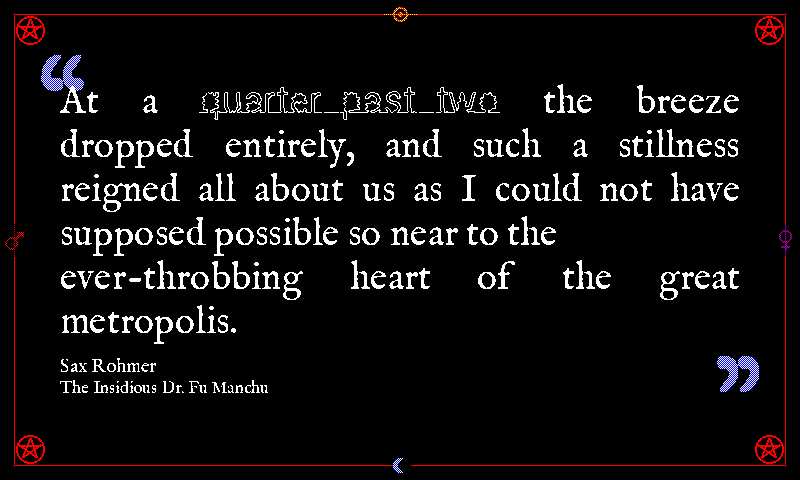
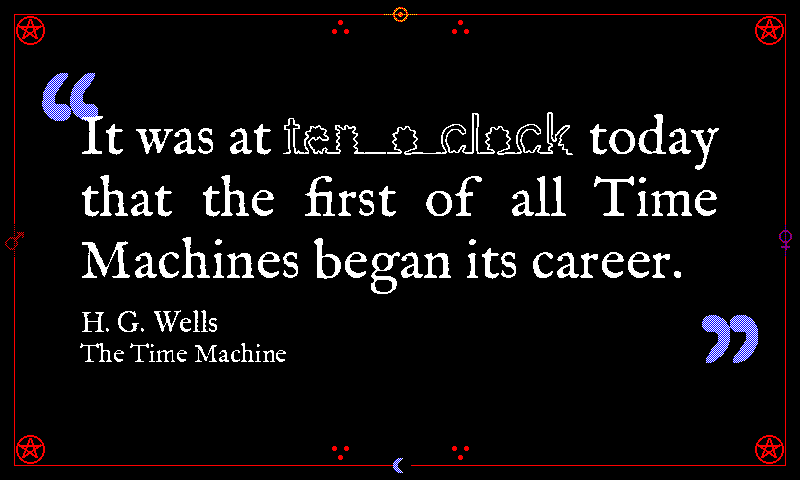
Uplevel roman and grimoire theme visuals
Continue the measured theme-upleveling effort with two themes that had
genuinely open margin space (verified by sampling margin-band busyness;
neither was touched by the earlier visual-improvements PR).

roman: add carved corner "stops" to draw_roman_border — a small red
right-triangle tucked into each inner-channel corner pointing inward along
the diagonal, the lapidary corner terminal a stonemason cut where two
channel rules meet (the rubrum-ink equivalent of a printer's corner
bracket). Sits in the corner gutters clear of the body text, picking up the
existing SPQR / interpunct / berry red vocabulary.

grimoire: add tria-prima triad dots to draw_grimoire_border — the three-dot
ritual-notation mark (salt · sulfur · mercury) in solid rubric red flanking
the Sun (top) and Moon (bottom) mid-edge sigils, filling the otherwise-empty
top / bottom interior bands between the corner pentagrams and the centre
sigils.

Add two border-detail unit tests and refresh both README preview thumbnails
(10:00 production; default.png reproduces byte-for-byte). Update CLAUDE.md
theme docs. Full suite green before commit (391 passed, 3 skipped); ruff
clean.

Changed region(s): [[0.0312, 0.0938, 0.9375, 0.8438], [0.875, 0.6562, 0.9688, 0.8125]]

diff --git a/idle_hours/render_quote.py b/idle_hours/render_quote.py
@@ -4352,6 +4352,27 @@ def draw_grimoire_border(image: Image.Image, colors: dict) -> None:
                     if row[px & 3] < threshold and pixels[px, py] == dark_ink:
                         pixels[px, py] = light_ink
 
+    # "Tria prima" triad dots flanking the Sun (top) and Moon (bottom)
+    # mid-edge sigils — the three-dot ``∴`` mark of alchemical / Masonic
+    # ritual notation (salt · sulfur · mercury), the smallest occult
+    # glyph that reads as deliberate ritual annotation. A small upward /
+    # downward triangle of three red dots is painted on each side of the
+    # Sun and Moon, filling the empty top / bottom interior bands
+    # (y≈18-40 / y≈440-462, between the corner pentagrams and the centre
+    # sigils — verified clear of the body block, which never starts
+    # before y=72 and ends by y≈410). Solid rubric red so they read on
+    # the open black field, matching the pentagram / sigil ink.
+    triad_r = 2
+    triad_spread = 6
+    for cy, point_up in ((outer_inset + 14, True), (height - 1 - outer_inset - 14, False)):
+        vy = -1 if point_up else 1
+        for cx in (width // 2 - 60, width // 2 + 60):
+            apex = (cx, cy + vy * triad_spread)
+            base_l = (cx - triad_spread, cy - vy * triad_spread // 2)
+            base_r = (cx + triad_spread, cy - vy * triad_spread // 2)
+            for dx, dy in (apex, base_l, base_r):
+                draw.ellipse((dx - triad_r, dy - triad_r, dx + triad_r, dy + triad_r), fill=accent)
+
 
 def draw_deco_border(image: Image.Image, colors: dict) -> None:
     """Paint an art-deco poster frame: doubled hairline rule + stepped
@@ -7301,6 +7322,37 @@ def draw_roman_border(image: Image.Image, colors: dict) -> None:
         (laurel_cx - 2, laurel_band_y - 4, laurel_cx + 2, laurel_band_y),
         fill=accent,
     )
+
+    # ------------------------------------------------------------------
+    # Layer 7: Carved corner "stops" on the inscribed face. A small red
+    # right-triangle tucked into each inner-channel corner, pointing
+    # inward along the diagonal — the carved corner terminal Roman
+    # stonemasons cut where two channel rules meet, the lapidary
+    # equivalent of a printer's corner bracket. Painted in rubrum to
+    # pick up the SPQR / interpunct / berry red vocabulary. Each
+    # triangle's legs are short (10 px) and hug the channel corner, so
+    # they sit in the corner gutter clear of the body text (the quote's
+    # widest dense layout spans roughly x60-740, y72-410, while these
+    # sit at the channel corners ≈(38,22)/(761,457)).
+    chan_l = rect_left + channel_inset
+    chan_r = rect_right - channel_inset
+    chan_t = rect_top + channel_inset
+    chan_b = rect_bot - channel_inset
+    stop_leg = 10
+    for corner_x, corner_y, hdir, vdir in (
+        (chan_l, chan_t, 1, 1),    # TL
+        (chan_r, chan_t, -1, 1),   # TR
+        (chan_l, chan_b, 1, -1),   # BL
+        (chan_r, chan_b, -1, -1),  # BR
+    ):
+        draw.polygon(
+            [
+                (corner_x, corner_y),
+                (corner_x + hdir * stop_leg, corner_y),
+                (corner_x, corner_y + vdir * stop_leg),
+            ],
+            fill=accent,
+        )
 
 
 def _draw_pentagram(draw: ImageDraw.ImageDraw, cx: int, cy: int, radius: int, color, line_width: int = 1) -> None:

diff --git a/tests/test_render_quote.py b/tests/test_render_quote.py
@@ -3754,3 +3754,30 @@ def test_chanbara_border_paints_brush_tick_column():
     red = rq.SPECTRA6["red"]
     col_red = sum(1 for x in range(20, 57) for y in range(188, 283) if px[x, y] == red)
     assert col_red > 40, "brush-tick signature column missing"
+
+
+def test_roman_border_paints_corner_stops():
+    """The upleveled roman border adds small red carved corner 'stops' (right
+    triangles) tucked into each inner-channel corner."""
+    img = Image.new("RGB", (800, 480), (255, 255, 255))
+    rq.draw_roman_border(img, rq.THEMES["roman"])
+    px = img.load()
+    red = rq.SPECTRA6["red"]
+    tl = sum(1 for x in range(38, 50) for y in range(22, 34) if px[x, y] == red)
+    br = sum(1 for x in range(750, 762) for y in range(446, 458) if px[x, y] == red)
+    assert tl > 20, "top-left corner stop missing"
+    assert br > 20, "bottom-right corner stop missing"
+
+
+def test_grimoire_border_paints_tria_prima_triads():
+    """The upleveled grimoire border adds tria-prima triad dots flanking the
+    Sun (top) and Moon (bottom) sigils, in the previously-empty interior
+    bands."""
+    img = Image.new("RGB", (800, 480), (0, 0, 0))
+    rq.draw_grimoire_border(img, rq.THEMES["grimoire"])
+    px = img.load()
+    red = rq.SPECTRA6["red"]
+    top_l = sum(1 for x in range(330, 352) for y in range(18, 40) if px[x, y] == red)
+    bot_l = sum(1 for x in range(330, 352) for y in range(440, 462) if px[x, y] == red)
+    assert top_l > 20, "top tria-prima triad missing"
+    assert bot_l > 20, "bottom tria-prima triad missing"

diff --git a/CLAUDE.md b/CLAUDE.md
@@ -536,9 +536,9 @@ Imports `pick_quote` in-process (`pick_quote_module.select_quote`) and lays out 
   - `atomic` (green-ground/black-body/red-accent — the only theme to claim Spectra 6's flat green as a *page background* — paired with the chunky 1950s Atomic Age display face. Plus a `draw_atomic_border` decoration: a rounded-corner red outer frame (Googie streamlined-modern curves), a centred atom symbol at the top of the page (three rotated red ellipse "orbits" at 0° / 60° / 120° plus a small filled red nucleus — PIL's `ellipse` doesn't accept rotation, so each orbit is drawn as a 64-point polygon-line approximation rotated through the standard 2×2 cosine/sine matrix), and twin tangerine starbursts at the mid-edges (eight rays radiating from a small filled dot — the iconic atomic-energy spark of mid-century diner / motel signage. Each ray is painted in red as a sentinel ink, then a per-starburst bbox post-pass Bayer-flips ~3/8 of the red pixels to yellow at threshold 6/16 — the documented R+Y 5/8:3/8 tangerine recipe `deco` already uses for its matched phrase — so the rays read as the warm atomic-spark glow of period-correct mid-century advertising rather than the harsh fire-engine red the atom orbits use. The atom symbol itself stays solid red so rays-vs-orbits reads as a visual contrast — solid orbits, warm-stippled rays). Plus an atomic **boomerang** centred in the bottom margin — the iconic Googie / Formica kidney-boomerang the era stamped on diner tables and motel signs, a chevron-shaped filled polygon with a small orbiting-electron dot off one tip, painted in red then bbox-post-passed through the same R+Y 5/8:3/8 tangerine recipe as the starburst rays (so it reads as warm atomic-spark orange, not the orbits' fire-engine red). Reads as a vintage atomic-age advertisement at a glance. The atom is centred horizontally so it doesn't conflict with the right-aligned `DEBUG MODE` banner, and the boomerang sits at the bottom centre clear of the bottom-left attribution; atomic is intentionally absent from `_DEBUG_LABEL_RIGHT_INSET`).
   - `marker` (white/black/blue-accent, Permanent Marker hand-drawn — "use the full capabilities of the display" brief: a `draw_marker_border` fridge-doodle frame that lights up every non-white spot colour the Spectra 6 panel can render. Thick 3 px marker-dash perimeter cycling through the five-colour palette so each edge picks up roughly one full rotation of the cycle; corner asterisks coloured red TL / blue TR / green BL / yellow BR for a "marker pot" register rather than a single-Sharpie doodle; left mid-edge mint highlighter dot (G+W 1:1 bbox post-pass via the documented two-ink recipe `nightvision`'s body uses) and right mid-edge violet overlap dot (R+B 1:1, the `illuminated` matched-phrase recipe) balancing the otherwise-stranded yellow + green pixels from the perimeter cycle; plus two doodle **"twinkle" sparkles** (a tapered four-point star with a tiny companion mark, the little stars a kid scatters around a fridge drawing) in the top-centre (red) and bottom-centre (blue) margins, pulling two more palette inks into the otherwise-empty head/foot space. The TR corner asterisk overlaps the y=14-29 banner band, so `marker` carries an entry in `_DEBUG_LABEL_RIGHT_INSET`; the top twinkle sits at x=width//2-70, left of the banner, so it needs no further inset adjustment).
   - `saloon` (white/black/red, Rye wood-engraved slab serif — 19th-century saloon poster / "WANTED" broadside. Same palette as `default` / `dispatch` / `roman` but a `draw_saloon_border` decoration heavy enough to read as hand-printed Western broadside at a glance: sparse red foxing speckles across the full page (a deterministic seeded `_SALOON_FOXING` stipple of ~360 single-pixel + 3×3 spots, painted in red then `(px+py)&1` post-passed to flip half to green per parity — the documented R+G 1:1 brown/sepia recipe — for aged-paper rust-brown foxing); doubled wanted-poster frame whose outer 3 px red rule similarly post-passes to read as rusted iron; top + bottom decorative banner bands with mirrored ornaments; corner fleurons; mid-edge red diamonds; and side-margin drop-pendant diamond chains — two diminishing red diamonds joined by a thin tick, hung inward from each left/right mid-edge diamond into the otherwise-empty tall side margins, the "drop pendant" terminal a broadside printer ran down from a margin ornament).
-  - `roman` (white/black/red, Cinzel Decorative chiselled serif — Roman lapidary inscription. The red accent is *rubrum*, the red lead pigment Roman carvers painted into engraved grooves to make inscriptions legible from a distance; Cinzel Decorative is a digital revival of Trajan's Column (113 AD), the canonical reference for capitalis monumentalis. Plus a `draw_roman_border` decoration laying the rest of the stone-slab vocabulary on top of the page: scattered limestone-grain speckles, a `tabula ansata` (Roman votive tablet) silhouette with two trapezoidal "dovetail" handles protruding from the left and right mid-edges, an SPQR cartouche at the top centre with interpunct dot separators between the letters, mirrored mid-edge interpunct dots, and a centred laurel sprig at the bottom — leaf colour painted in yellow then bbox-post-passed to olive per the documented Y+G 1:1 recipe, the canonical Mediterranean laurel).
+  - `roman` (white/black/red, Cinzel Decorative chiselled serif — Roman lapidary inscription. The red accent is *rubrum*, the red lead pigment Roman carvers painted into engraved grooves to make inscriptions legible from a distance; Cinzel Decorative is a digital revival of Trajan's Column (113 AD), the canonical reference for capitalis monumentalis. Plus a `draw_roman_border` decoration laying the rest of the stone-slab vocabulary on top of the page: scattered limestone-grain speckles, a `tabula ansata` (Roman votive tablet) silhouette with two trapezoidal "dovetail" handles protruding from the left and right mid-edges, an SPQR cartouche at the top centre with interpunct dot separators between the letters, mirrored mid-edge interpunct dots, and a centred laurel sprig at the bottom — leaf colour painted in yellow then bbox-post-passed to olive per the documented Y+G 1:1 recipe, the canonical Mediterranean laurel — plus small red **carved corner stops** (a right-triangle tucked into each inner-channel corner pointing inward along the diagonal, the lapidary corner terminal a stonemason cut where two channel rules meet — the rubrum-ink equivalent of a printer's corner bracket, sitting in the corner gutters clear of the body text)).
   - `alchemy` (yellow/black/red+blue, IM Fell English body + MedievalSharp matched phrase + ornament — parchment grimoire register, the aged-yellow ground a real alchemical manuscript takes on after four centuries of candlelight and iron-gall ink. IM Fell English is Igino Marini's revival of John Fell's 17th-century Oxford-press types, the same Oxford types that printed actual alchemical treatises (Ashmole's *Theatrum Chemicum Britannicum*, Newton's manuscript translations of Flamel); matched phrase in MedievalSharp + red rubricated accent the way medieval scribes flagged the operative phrase of a spell, blue Hermetic ornaments for the oversized quote marks. The matched-phrase red is rerouted in `_draw_text_body` to a 50/50 R+B purple stipple — the Tyrian-purple recipe shared with `illuminated` / `risograph`. Plus a `draw_alchemy_border` transmutation circle whose four classical-element triangles each paint a different documented two-ink elemental recipe: 🜂 Fire (R+Y 5/8:3/8 tangerine, BL), 🜁 Air (R+B 1:1 purple, TR), 🜃 Earth (Y+G 1:1 olive, TL), 🜄 Water (B+W 1:1 sky blue, alternate TR) — the four classical elements rendered as their canonical synthesised colours).
-  - `grimoire` (black/white/red+blue, IM Fell English body + TFoust matched phrase — alchemical grimoire / Faustian spellbook, the black leather-bound midnight counterpoint to `alchemy`'s yellow daylight ritual diagram. Shares only the palette family with `alchemy`. TFoust is a hollow-outline shaggy display face that reads as occult sigil-work against the dignified vintage-press body — short ASCII time strings ("half past two") render in its phantom-scrawl silhouette glowing through the page like a magic-circle inscription. The matched-phrase red is stippled with the sparse 1-in-4 white-on-red dither (`light_density=0.25`, the documented candlelit-red recipe `gothic`'s matched phrase shares — both sister themes carrying the same candlelit-rubric signature against their respective grounds), so the phrase shimmers like a candle-lit rubric against the black ground without diluting into pink at panel distance. The oversized quote marks render as a 50/50 blue/white checkerboard via `draw_faux_gray_text` for cool moon-silver "sky" — the documented sky-blue B+W recipe `glacier`'s corner shards use, here promoted to ornament scale. Plus a `draw_grimoire_border` decoration: inscribed pentagrams at the four canvas corners and the four classical planetary alchemical sigils painted on the mid-edges — ☉ Sun (top, tangerine R+Y), ☽ Moon (bottom, sky-blue B+W), ♂ Mars (left, maroon R+K), ♀ Venus (right, purple R+B). Iconographically unrelated to `gothic`'s blackletter + cathedral-tracery vocabulary despite the shared black/white/red palette shape — the TFoustScript hollow-display plus *inscribed* pentagrams and planetary sigils give grimoire its own ritual-scrawl signature).
+  - `grimoire` (black/white/red+blue, IM Fell English body + TFoust matched phrase — alchemical grimoire / Faustian spellbook, the black leather-bound midnight counterpoint to `alchemy`'s yellow daylight ritual diagram. Shares only the palette family with `alchemy`. TFoust is a hollow-outline shaggy display face that reads as occult sigil-work against the dignified vintage-press body — short ASCII time strings ("half past two") render in its phantom-scrawl silhouette glowing through the page like a magic-circle inscription. The matched-phrase red is stippled with the sparse 1-in-4 white-on-red dither (`light_density=0.25`, the documented candlelit-red recipe `gothic`'s matched phrase shares — both sister themes carrying the same candlelit-rubric signature against their respective grounds), so the phrase shimmers like a candle-lit rubric against the black ground without diluting into pink at panel distance. The oversized quote marks render as a 50/50 blue/white checkerboard via `draw_faux_gray_text` for cool moon-silver "sky" — the documented sky-blue B+W recipe `glacier`'s corner shards use, here promoted to ornament scale. Plus a `draw_grimoire_border` decoration: inscribed pentagrams at the four canvas corners and the four classical planetary alchemical sigils painted on the mid-edges — ☉ Sun (top, tangerine R+Y), ☽ Moon (bottom, sky-blue B+W), ♂ Mars (left, maroon R+K), ♀ Venus (right, purple R+B). Plus **tria-prima triad dots** (the three-dot `∴` ritual-notation mark — salt · sulfur · mercury) in solid rubric red flanking the Sun and Moon sigils, filling the otherwise-empty top / bottom interior bands between the corner pentagrams and the centre sigils. Iconographically unrelated to `gothic`'s blackletter + cathedral-tracery vocabulary despite the shared black/white/red palette shape — the TFoustScript hollow-display plus *inscribed* pentagrams and planetary sigils give grimoire its own ritual-scrawl signature).
   - `deco` (white/black/red-stippled-to-yellow → perceived orange, Righteous geometric art-deco display sans — Astigmatic, OFL, single-weight, matched phrase reuses Regular and earns differentiation from the synthesised-orange accent alone, a richer variant of the bichrome-ribbon trick comic / dispatch / atomic / marker / saloon use because Spectra 6 has no orange ink — both `_draw_text_body` (matched-phrase glyphs) and `draw_deco_border`'s final pass (stepped L-shapes + rising-sun fan) flip half of the painted red pixels to yellow on the same `(x+y) & 1` checkerboard so body text and decoration land on one shared tangerine tone at panel distance, the warm sunburst-and-chevron palette the period actually used rather than fire-engine red. Plus a `draw_deco_border` decorative frame: doubled hairline rule at insets 14 and 22 px, four concentric stepped-corner L-shapes per corner — the canonical 1930s skyscraper-steps motif found on every cinema marquee and travel poster — three nested inward-pointing chevrons at each of the left/right mid-edges (echoing the corner steps and filling the side margins; painted in accent so the tangerine pass picks them up), and a centred rising-sun fan at the top inner edge: a small filled accent dot with five short radial rays fanning upward through the band between the two rules. After the global tangerine pass converts the rays from red to R+Y tangerine, a second cream-gradient post-pass on just the inner ~5 px of the fan band flips remaining red pixels to white per `(x+y)&1` parity — so the inner rays read as bright Y+W cream fading back into the R+Y tangerine at the tips, simulating a true sunburst's central glow rather than a uniform tangerine fan. Centred horizontally and stepped corners reach x ≤ width-14, so `deco` is deliberately absent from `_DEBUG_LABEL_RIGHT_INSET` for the same reason as `atomic` / `dispatch`).
   - `glacier` (white/blue/green, Iceland geometric techno display face — Cyreal, OFL, the first theme to pair a blue body with a green accent. The matched-phrase green accent is rerouted in `_draw_text_body` to a 5/8:3/8 G+B teal stipple — green-biased via Bayer threshold 6/16, the same luminance-bias pattern `nightvision`'s lime and `deco`'s tangerine use to lift a matched phrase off a same-axis body colour. An earlier revision shipped this seam at 50/50 G+B cyan; against the solid-blue body the cyan averaged too close to blue at panel viewing distance and read as a near-sibling tone, so the recipe was biased toward green to widen the hue stride. Solid Spectra-6 green was tried and rejected before cyan because it read as a muddy mid-tone; the 3/8 blue stipple keeps the recipe out of that failure mode while still pulling cleanly off the body blue. Cool-palette gradient now reads as blue body → teal matched phrase → sky-blue ornament highlights on the frost-crystal border. Plus a `draw_glacier_border` decorative frame: thin blue outer rule at inset 14; a **frost-edge wash** — a sparse sky-blue frost gathering in the ≤44 px clear margins above and below the type area, painted as a gradient Bayer threshold (peak ~5/16 at the frame edge fading linearly to bare at the inner lip) that only flips *white* ground pixels to blue, so the ground reads as ice creeping across a windowpane rather than a flat sheet while the blue body text (which never starts before y=72) stays fully legible (skipped on non-white grounds so the unit-test sentinel render is unaffected); four richer corner frost-crystal sprays — each fans a blue horizontal + vertical splinter, two intermediate blue splinters filling the 45° fan, and the longest green-tipped diagonal splinter with two tiny dendrite barbs feathering off it the way real hoar-frost grows side-arms, anchored by a small blue hub dot — the diagonal splinter's (and its barbs') green pixels are post-pass-flipped to white on a 50/50 `(x+y)&1` checkerboard inside each cluster's bbox (the documented sky-blue two-ink recipe), so the eye averages green+white at panel distance into a sunlight-on-ice highlight against the deep-ice body-blue shards; and four mid-edge **six-armed snowflake ticks** — three crossing spokes at 0°/60°/120° with a small forked barb at each of the six tips plus a filled blue hub diamond — reinforcing the architectural symmetry without crowding the quote. The TR cluster overlaps the default debug-banner band, so `glacier` carries an entry of 34 in `_DEBUG_LABEL_RIGHT_INSET` mirroring `blueprint`'s rationale).
   - `chalkboard` (black-ground/white-body/yellow-accent, Playwrite GB J Guides — TypeTogether, OFL — the UK primary-school joined cursive handwriting model *with* the dotted-outline guide letters schoolchildren trace over. Single-weight (Regular only); the dotted/hollow letterforms themselves are the point, so the matched-phrase role reuses Regular and gains differentiation from the yellow chalk-stick accent. Falls back through DejaVu Sans Italic / Liberation Sans Italic before degrading to the Playfair chain so a missing install lands on at least a slanted silhouette rather than dropping a cursive theme onto an upright serif. Plus a `draw_chalkboard_border` decoration: doubled white wooden frame (outer 3 px rule at inset 8 + inner 1 px rule at inset 18, with the ~7 px gap between them left unfilled so the black ground reads through as dark wood grain), a deterministic chalk-dust stipple of single-pixel white dots tucked into the bottom-left corner — pinned to the BL because that's where the chalk tray actually sits on a classroom board — a small green-chalk teacher's `✓` check-mark at the upper-right inner margin (drawn in solid Spectra 6 green at y≈50 as two short line segments forming the canonical "marked correct" annotation; sits below the y=14-29 `DEBUG MODE` banner band by construction), and five small coral eraser-smudge dots spaced along the bottom inner edge (each painted as a 3 px filled red circle then post-passed with white at 50/50 `(x+y)&1` parity inside its bbox so the eye averages red+white at panel distance into coral pink — the documented R+W 1:1 two-ink recipe — reading as the faint pink eraser-stub residue that builds up at the bottom of a real classroom chalkboard), a top-left **handwriting practice-guide rule** (solid top line + dashed midline + solid baseline in white chalk — the ruling schoolchildren write between, the defining gesture of the Playwrite GB J Guides face this theme uses), and a yellow-chalk **gold-star "well done" sticker** beside the green teacher's check so the graded gesture reads as tick-plus-star. The TR check-mark + star stay inside x ≤ width-22 and y ≥ 38, and the practice-guide rule is left-anchored in the top margin, so `chalkboard` is intentionally absent from `_DEBUG_LABEL_RIGHT_INSET` — same exemption as `dispatch` / `atomic`).
